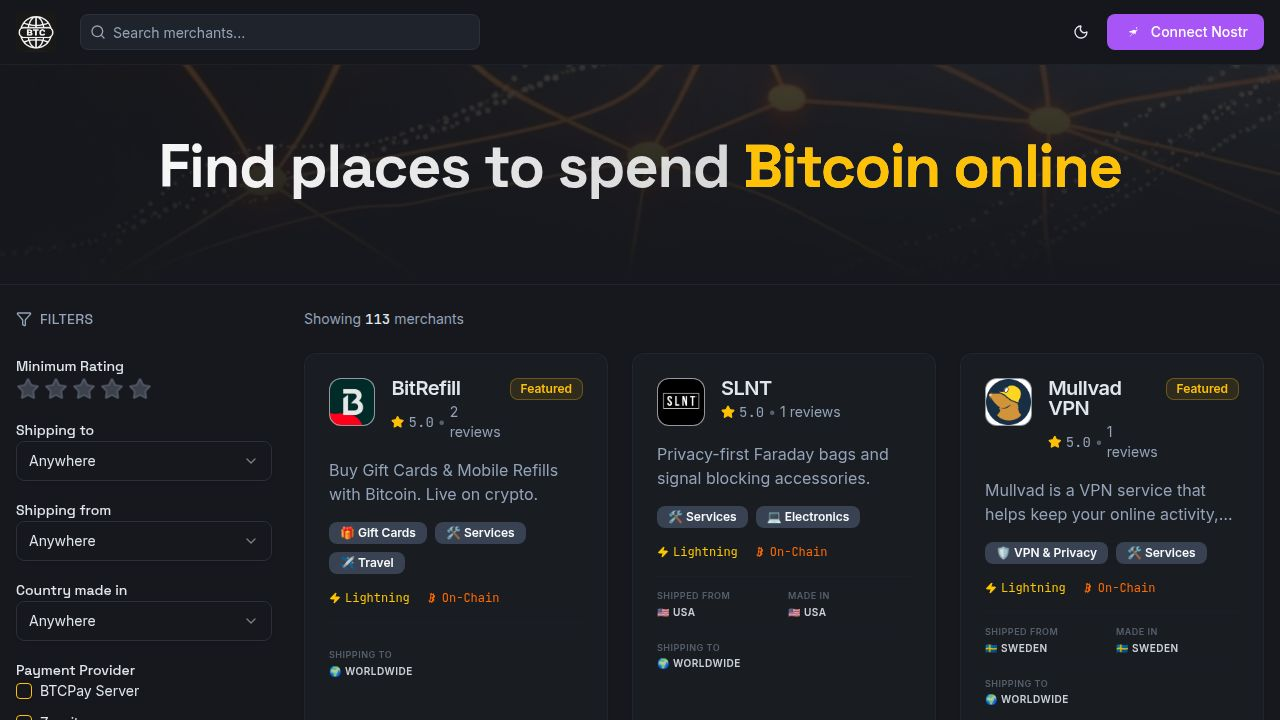
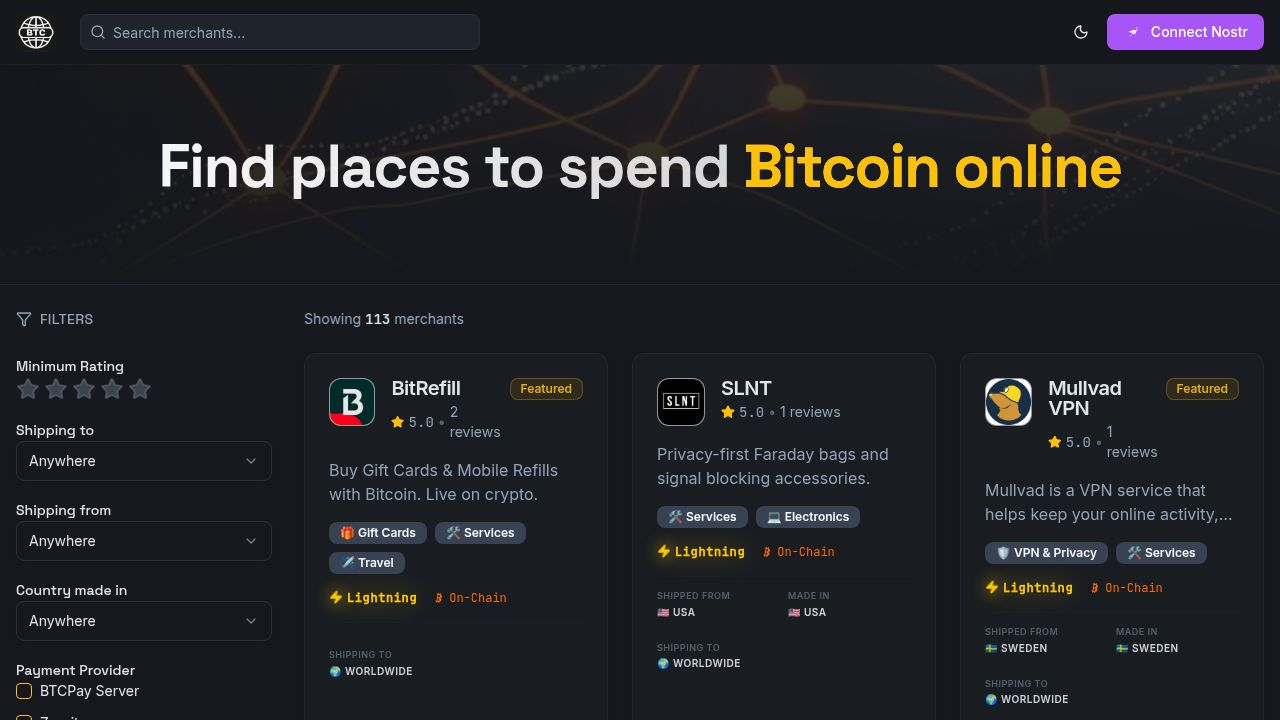
Add animations and visual flair to the merchant directory
Enhances merchant cards with animated Lightning and On-Chain payment indicators, a blinking "NEW" badge for recent listings, and updates keyframe animations for visual effects in client/src/index.css.

Replit-Commit-Author: Agent
Replit-Commit-Session-Id: 9ce4dcad-b6e7-4f3f-9e5e-fbe70b8e379a
Replit-Commit-Checkpoint-Type: full_checkpoint
Replit-Commit-Event-Id: 82e0e08d-b437-43d7-979b-e30bc1bc3a35
Replit-Commit-Screenshot-Url: https://storage.googleapis.com/screenshot-production-us-central1/836d56c9-18a9-46ad-9972-6a9fa87541a8/9ce4dcad-b6e7-4f3f-9e5e-fbe70b8e379a/8gsN8sP
Replit-Helium-Checkpoint-Created: true

Changed region(s): [[0.5, 0.7333, 0.6562, 0.7944], [0.25, 0.7944, 0.4062, 0.8556], [0.75, 0.7944, 0.9062, 0.825]]

diff --git a/client/src/components/merchant-card.tsx b/client/src/components/merchant-card.tsx
@@ -68,13 +68,9 @@ export default function MerchantCard({ merchant }: MerchantCardProps) {
       {merchant.reviews.length === 0 && (
         <div className="absolute top-2 right-2 z-20 pointer-events-none">
           <img 
-            src="https://media.tenor.com/view/new-blinking-new-blinking-without-background-gif-5770026634302544702" 
+            src="https://media.giphy.com/media/v1.Y2lkPTc5MGI3NjExNHJndXp4ZzB4ZzB4ZzB4ZzB4ZzB4ZzB4ZzB4ZzB4ZzB4ZzB4ZzB4JmVwPXYxX3N0aWNrZXJzX3NlYXJjaCZjdD1z/3o7TKMGpxx8yGz8uXm/giphy.gif" 
             alt="New" 
-            className="h-8 w-auto mix-blend-multiply dark:mix-blend-screen"
-            onError={(e) => {
-              // Fallback if tenor direct link is weird
-              e.currentTarget.src = "https://media.giphy.com/media/v1.Y2lkPTc5MGI3NjExNHJndXp4ZzB4ZzB4ZzB4ZzB4ZzB4ZzB4ZzB4ZzB4ZzB4ZzB4ZzB4JmVwPXYxX3N0aWNrZXJzX3NlYXJjaCZjdD1z/3o7TKMGpxx8yGz8uXm/giphy.gif";
-            }}
+            className="h-10 w-auto drop-shadow-md"
           />
         </div>
       )}
@@ -312,15 +308,17 @@ export default function MerchantCard({ merchant }: MerchantCardProps) {
 
         <div className="flex items-center gap-4 text-xs text-muted-foreground font-mono">
           {merchant.lightningSupported && (
-            <div className="flex items-center gap-1 text-yellow-400">
-              <Zap className="h-3 w-3 fill-current" />
-              <span>Lightning</span>
+            <div className="flex items-center gap-1.5 text-yellow-400 relative px-2 py-0.5 rounded-full bg-yellow-400/10 border border-yellow-400/20 overflow-hidden group/lightning">
+              <div className="absolute inset-0 bg-gradient-to-r from-transparent via-yellow-400/20 to-transparent -translate-x-full animate-shimmer pointer-events-none" />
+              <Zap className="h-3.5 w-3.5 fill-current animate-bounce-subtle drop-shadow-[0_0_8px_rgba(250,204,21,0.8)]" />
+              <span className="relative z-10 font-bold tracking-wider text-[10px]">LIGHTNING</span>
             </div>
           )}
           {merchant.onchainSupported && (
-            <div className="flex items-center gap-1 text-orange-500">
-              <Bitcoin className="h-3 w-3 fill-current" />
-              <span>On-Chain</span>
+            <div className="flex items-center gap-1.5 text-orange-500 relative px-2 py-0.5 rounded-full bg-orange-500/10 border border-orange-500/20 overflow-hidden group/onchain">
+              <div className="absolute inset-0 bg-gradient-to-r from-transparent via-orange-500/20 to-transparent -translate-x-full animate-shimmer pointer-events-none" />
+              <Bitcoin className="h-3.5 w-3.5 fill-current animate-pulse drop-shadow-[0_0_8px_rgba(249,115,22,0.8)]" />
+              <span className="relative z-10 font-bold tracking-wider text-[10px]">ON-CHAIN</span>
             </div>
           )}
         </div>

diff --git a/client/src/index.css b/client/src/index.css
@@ -98,6 +98,27 @@
   --color-chart-5: hsl(var(--chart-5));
 
   --radius: 0.5rem;
+
+  --animate-pulse-slow: pulse-slow 3s cubic-bezier(0.4, 0, 0.6, 1) infinite;
+  --animate-bounce-subtle: bounce-subtle 2s ease-in-out infinite;
+
+  @keyframes pulse-slow {
+    0%, 100% { opacity: 1; }
+    50% { opacity: 0.5; }
+  }
+
+  @keyframes bounce-subtle {
+    0%, 100% { transform: translateY(0); }
+    50% { transform: translateY(-2px); }
+  }
+
+  @keyframes shimmer {
+    100% {
+      transform: translateX(100%);
+    }
+  }
+
+  --animate-shimmer: shimmer 2s infinite;
 }
 
 @layer base {
